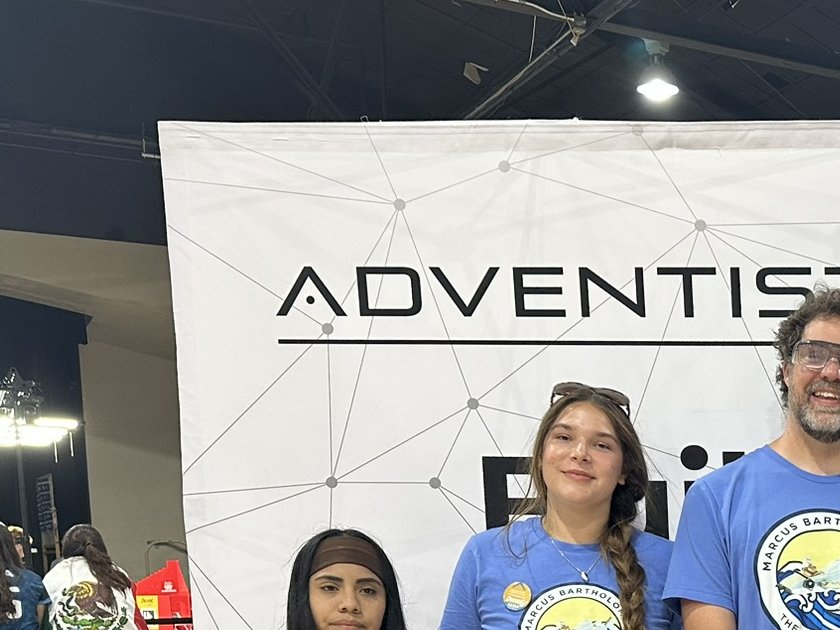
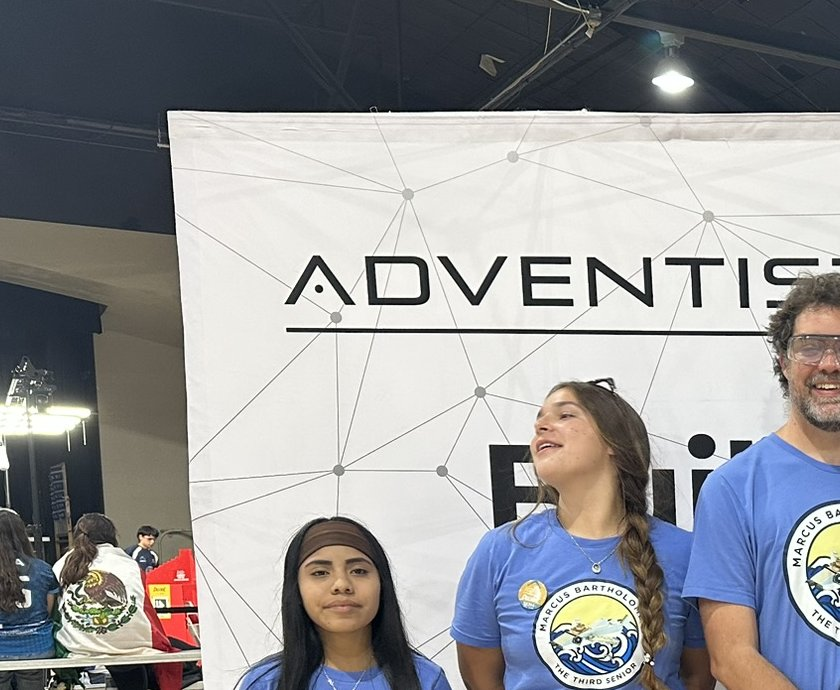
Add 32314 championship team photo
Process IMG_4500.jpg as a robot/team photo for team 32314 and update the scouting page accordingly.

diff --git a/scouting/32314.md b/scouting/32314.md
@@ -8,7 +8,7 @@ title: "Scouting — 32314 Marcus Bartholomew the Third Senior"
 [← Back to scouting overview](/scouting/)
 
 <div class="photo-grid">
-  <img src="/assets/images/scouting/32314-robot-3.jpg" alt="32314 Marcus Bartholomew the Third Senior at the League Championship">
+  <img src="/assets/images/scouting/32314-robot-3.jpg" alt="32314 Marcus Bartholomew the Third Senior team and robot at the League Championship">
   <img src="/assets/images/scouting/32314-robot.jpg" alt="32314 Marcus Bartholomew the Third Senior robot">
   <img src="/assets/images/scouting/32314-robot-2.jpg" alt="32314 Marcus Bartholomew the Third Senior robot intake">
 </div>
